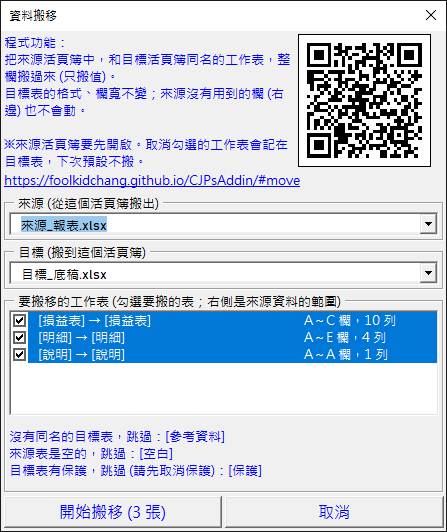
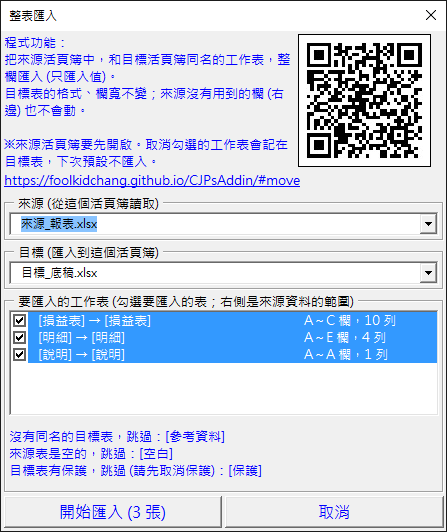
資料搬移改名「整表匯入」；產生QRCode 加上說明；公司更新檔換成 10/14 版
- 網站、小測驗、README 的名稱改成整表匯入 (頁籤 id 仍是 move)，註明 v1.13 的選單名稱是資料搬移
- 設定視窗截圖與練習檔改成新名稱
- 公司更新檔：A13 此版號不再通知、整表匯入、下拉選單微軟正黑體 9、資料拆檔的 Tab 順序

diff --git a/index.html b/index.html
@@ -4,13 +4,13 @@
 <meta charset="utf-8">
 <meta name="viewport" content="width=device-width, initial-scale=1, viewport-fit=cover">
 <!-- 搜尋關鍵字：CJP、增益集、VBA、Add-in。標題、簡介、首頁說明與下方的結構化資料要一起維護 -->
-<meta name="description" content="CJP 增益集 (CJPsAddin、CJP's VBA Tools) 是一個 Excel VBA Add-in，提供篩選強化、兩表比對、單表比對、多檔收集、單檔收集、資料拆檔、資料搬移、樞紐明細等功能。附教學與線上練習，直接在瀏覽器操作。">
+<meta name="description" content="CJP 增益集 (CJPsAddin、CJP's VBA Tools) 是一個 Excel VBA Add-in，提供篩選強化、兩表比對、單表比對、多檔收集、單檔收集、資料拆檔、整表匯入、樞紐明細等功能。附教學與線上練習，直接在瀏覽器操作。">
 <meta property="og:type" content="website">
 <meta property="og:site_name" content="CJPsAddin">
 <meta property="og:url" content="https://foolkidchang.github.io/CJPsAddin/">
 <meta property="og:locale" content="zh_TW">
 <meta property="og:title" content="CJP 增益集 CJPsAddin｜Excel VBA Tools (附教學)">
-<meta property="og:description" content="CJP 增益集 (CJPsAddin、CJP's VBA Tools) 是一個 Excel VBA Add-in，提供篩選強化、兩表比對、單表比對、多檔收集、單檔收集、資料拆檔、資料搬移、樞紐明細等功能。附教學與線上練習，直接在瀏覽器操作。">
+<meta property="og:description" content="CJP 增益集 (CJPsAddin、CJP's VBA Tools) 是一個 Excel VBA Add-in，提供篩選強化、兩表比對、單表比對、多檔收集、單檔收集、資料拆檔、整表匯入、樞紐明細等功能。附教學與線上練習，直接在瀏覽器操作。">
 <meta name="google-site-verification" content="buucDtRrcJYY-0kigrYnWsXKJyp51EqlqKGfyQU-9uo">
 <link rel="canonical" href="https://foolkidchang.github.io/CJPsAddin/">
 <title>CJP 增益集 CJPsAddin｜Excel VBA Tools (附教學)</title>
@@ -475,8 +475,8 @@ table.wrap td,table.wrap th{white-space:normal}
       <span class="subgrp" data-group="collect" role="group" hidden><button class="subtab" role="tab" data-tab="collect" data-group="collect" id="t-collect">多檔收集</button><button class="subtab" role="tab" data-tab="classify" data-group="collect" id="t-classify">單檔收集</button></span>
       <button class="tab" role="tab" data-group="split">資料拆檔</button>
       <span class="subgrp" data-group="split" role="group" hidden><button class="subtab" role="tab" data-tab="split" data-group="split" id="t-split">資料拆檔</button></span>
-      <button class="tab" role="tab" data-group="move">資料搬移</button>
-      <span class="subgrp" data-group="move" role="group" hidden><button class="subtab" role="tab" data-tab="move" data-group="move" id="t-move">資料搬移</button></span>
+      <button class="tab" role="tab" data-group="move">整表匯入</button>
+      <span class="subgrp" data-group="move" role="group" hidden><button class="subtab" role="tab" data-tab="move" data-group="move" id="t-move">整表匯入</button></span>
       <button class="tab" role="tab" data-group="settings" data-label="設定切換">設定切換</button>
       <span class="subgrp" data-group="settings" role="group" hidden><button class="subtab" role="tab" data-tab="pivot" data-group="settings" id="t-pivot">樞紐明細</button></span>
       <button class="tab" role="tab" data-group="quiz">小測驗</button>
@@ -513,7 +513,7 @@ table.wrap td,table.wrap th{white-space:normal}
     <div class="more-body">
     <p class="lead">執行一次安裝程式，之後<b class="hl">每次開 Excel 都會自動載入</b>，不用再設定。</p>
 
-    <div class="pending"><span>📦</span><span><a class="dl-btn" href="files/CJPsAddin_v1.13.zip" download><svg viewBox="0 0 24 24" aria-hidden="true"><path d="M12 3v12m0 0-5-5m5 5 5-5M4 19h16"/></svg>下載增益集 v1.13 (zip)</a> 內含增益集 <code>CJPsAddin.xla</code> 與安裝程式。練習檔不在 zip 裡，請到篩選強化、兩表比對、單表比對、資料拆檔、資料搬移各單元下載。</span></div>
+    <div class="pending"><span>📦</span><span><a class="dl-btn" href="files/CJPsAddin_v1.13.zip" download><svg viewBox="0 0 24 24" aria-hidden="true"><path d="M12 3v12m0 0-5-5m5 5 5-5M4 19h16"/></svg>下載增益集 v1.13 (zip)</a> 內含增益集 <code>CJPsAddin.xla</code> 與安裝程式。練習檔不在 zip 裡，請到篩選強化、兩表比對、單表比對、資料拆檔、整表匯入各單元下載。</span></div>
 
     <div class="steps">
       <div class="step"><span class="step-n">步驟 1</span><h3>下載並解壓縮</h3><p>在 zip 上按右鍵 →「全部解壓縮」。不要直接在 zip 裡執行，安裝程式要和 <code>CJPsAddin.xla</code> 放在同一個資料夾</p></div>
@@ -637,7 +637,7 @@ table.wrap td,table.wrap th{white-space:normal}
             <li data-tip="依據〔分類規則表〕Key值進行資料收集；可當成批次VLOOKUP使用" tabindex="0"><span class="mi">單檔收集</span><a class="lab-tag" href="#classify-1">練習 →</a></li>
           </ul></li>
           <li data-tip="依Key值欄的內容，把工作表拆成多個檔案" tabindex="0"><span class="mi">資料拆檔</span><a class="lab-tag" href="#split-1">練習 →</a></li>
-          <li data-tip="把來源活頁簿中同名工作表的資料，整欄搬到目標活頁簿 (只搬值)" tabindex="0"><span class="mi">資料搬移</span><a class="lab-tag" href="#move">說明 →</a></li>
+          <li data-tip="把來源活頁簿中同名工作表的資料，整欄匯入目標活頁簿 (只匯入值)" tabindex="0"><span class="mi">整表匯入</span><a class="lab-tag" href="#move">說明 →</a></li>
           <li class="grp">批量檔案處理…<ul>
             <li class="grp">更改檔名…<ul>
               <li>檔名讀取</li>
@@ -655,7 +655,7 @@ table.wrap td,table.wrap th{white-space:normal}
       </div>
       <div><h3>特殊功能</h3>
         <ul>
-          <li>產生QRCode</li>
+          <li data-tip="依「已複製的資訊」產生QRCode" tabindex="0"><span class="mi">產生QRCode</span></li>
         </ul>
         <h3 style="margin-top:14px">快速存取工具列</h3>
         <ul>
@@ -717,10 +717,10 @@ table.wrap td,table.wrap th{white-space:normal}
       </div>
     </a>
     <a class="lesson-card" href="#move">
-      <h3 class="lc-title">資料搬移</h3>
+      <h3 class="lc-title">整表匯入</h3>
       <figure class="ill" data-ill="move" aria-hidden="true"></figure>
       <div class="lc-txt">
-        <p>把報表貼進底稿：兩個活頁簿裡<b class="hl">名稱相同的工作表</b>，一次把資料整欄搬過去，只搬值、不帶格式。</p>
+        <p>把報表貼進底稿：兩個活頁簿裡<b class="hl">名稱相同的工作表</b>，一次把資料整欄匯入，只匯入值、不帶格式。</p>
         <span class="lc-go">看說明與練習檔 →</span>
       </div>
     </a>
@@ -1568,16 +1568,16 @@ table.wrap td,table.wrap th{white-space:normal}
   </div>
 </section>
 
-<!-- ============================ 資料搬移 ============================ -->
+<!-- ============================ 整表匯入 (原名資料搬移，頁籤 id 仍是 move) ============================ -->
 <section class="lesson" id="tab-move" hidden>
   <div class="head">
     <div class="eyebrow">功能說明</div>
-    <h2>資料搬移</h2>
+    <h2>整表匯入</h2>
   </div>
 
   <div class="panel intro">
     <figure class="ill">
-      <svg viewBox="0 0 340 126" role="img" aria-label="示意圖：來源活頁簿的損益表、明細搬到目標活頁簿的同名工作表；來源的參考資料在目標沒有同名的表，跳過">
+      <svg viewBox="0 0 340 126" role="img" aria-label="示意圖：來源活頁簿的損益表、明細匯入目標活頁簿的同名工作表；來源的參考資料在目標沒有同名的表，跳過">
         <defs><marker id="ill-ah4" markerUnits="userSpaceOnUse" markerWidth="9" markerHeight="9" refX="8" refY="4.5" orient="auto"><path class="i-acc" d="M0 0 L9 4.5 L0 9 Z"/></marker></defs>
         <text x="76" y="22" text-anchor="middle" class="i-muted">來源活頁簿</text>
         <rect class="i-box" x="6" y="30" width="140" height="88" rx="4"/>
@@ -1592,11 +1592,11 @@ table.wrap td,table.wrap th{white-space:normal}
         <rect class="i-both" x="200" y="63" width="128" height="22" rx="3"/><text x="208" y="78" class="i-b">明細</text>
         <rect class="i-box" x="200" y="89" width="128" height="22" rx="3"/><text x="208" y="104" class="i-muted">說明</text><text x="320" y="104" text-anchor="end" class="i-muted">不動</text>
       </svg>
-      <figcaption>名稱相同的工作表整欄搬過去 (只搬值)，其他的表不動</figcaption>
+      <figcaption>名稱相同的工作表整欄匯入 (只匯入值)，其他的表不動</figcaption>
     </figure>
     <div class="intro-txt">
       <h3>這個功能在做什麼</h3>
-      <p>每個月把系統匯出的報表貼進固定格式的底稿，底稿裡的公式再參照這些資料。工作表一多，一張一張「複製、貼上值」很花時間，這時用<b class="hl">資料搬移</b>：來源活頁簿和目標活頁簿中<b>名稱相同的工作表</b>，一次把來源的資料整欄搬到目標。只搬值，目標的格式、欄寬、公式欄都維持原樣。</p>
+      <p>每個月把系統匯出的報表貼進固定格式的底稿，底稿裡的公式再參照這些資料。工作表一多，一張一張「複製、貼上值」很花時間，這時用<b class="hl">整表匯入</b>：來源活頁簿和目標活頁簿中<b>名稱相同的工作表</b>，一次把來源的資料整欄匯入目標。只匯入值，目標的格式、欄寬、公式欄都維持原樣。</p>
       <div class="intro-cols">
         <div>
           <h4>適合這些時候用</h4>
@@ -1620,11 +1620,11 @@ table.wrap td,table.wrap th{white-space:normal}
 
   <div class="sub-head">
     <h3>設定視窗</h3>
-    <p class="lead">先開啟來源活頁簿，再切到要更新的底稿 (目標)，在增益集選單「常用功能二」點<b>資料搬移</b>。視窗會列出配對成功的工作表，確認後按「開始搬移」。</p>
+    <p class="lead">先開啟來源活頁簿，再切到要更新的底稿 (目標)，在增益集選單「常用功能二」點<b>整表匯入</b> (v1.13 的選單名稱是「資料搬移」)。視窗會列出配對成功的工作表，確認後按「開始匯入」。</p>
   </div>
   <div class="grid-2">
     <figure class="shot">
-      <img src="img/move_form.png" width="447" height="532" loading="lazy" alt="資料搬移設定視窗：來源與目標活頁簿的下拉選單、勾選要搬移的工作表清單 (右側是來源資料的範圍)，以及跳過的工作表和原因">
+      <img src="img/move_form.png" width="447" height="532" loading="lazy" alt="整表匯入設定視窗：來源與目標活頁簿的下拉選單、勾選要匯入的工作表清單 (右側是來源資料的範圍)，以及跳過的工作表和原因">
       <figcaption>設定視窗 (用練習檔開啟)</figcaption>
     </figure>
     <div class="panel">
@@ -1632,16 +1632,16 @@ table.wrap td,table.wrap th{white-space:normal}
       <ol class="tight" style="margin-top:8px">
         <li><b>來源</b>：列出目前開著的活頁簿，自動選第一個不是目標的檔案。要的檔案不在清單裡時，先在 Excel 開啟它，再按一次下拉箭頭，清單會重新整理</li>
         <li><b>目標</b>：預設是執行時所在的活頁簿</li>
-        <li><b>要搬移的工作表</b>：每一列是一組「[來源表] → [目標表]」，右側是來源資料的範圍，例如「A～C 欄，10 列」。<b class="hl">取消勾選的不搬</b>，例如兩邊都有的「說明」表</li>
+        <li><b>要匯入的工作表</b>：每一列是一組「[來源表] → [目標表]」，右側是來源資料的範圍，例如「A～C 欄，10 列」。<b class="hl">取消勾選的不匯入</b>，例如兩邊都有的「說明」表</li>
         <li>清單下方的藍字是<b>跳過的表與原因</b>：沒有同名的目標表、來源表是空的、目標表有保護 (請先取消保護)</li>
-        <li>按鈕會顯示要搬幾張，例如「開始搬移 (2 張)」；搬完會列出成功和失敗的工作表</li>
+        <li>按鈕會顯示要匯入幾張，例如「開始匯入 (2 張)」；匯入後會列出成功和失敗的工作表</li>
       </ol>
     </div>
   </div>
 
   <div class="sub-head">
-    <h3>只搬值：內容會怎麼變</h3>
-    <p class="lead">只搬值等於把每一格<b>重新輸入一次</b>，和「先貼到記事本、再貼回 Excel」的效果一樣。結果會依目標欄的儲存格格式而不同：</p>
+    <h3>只匯入值：內容會怎麼變</h3>
+    <p class="lead">只匯入值等於把每一格<b>重新輸入一次</b>，和「先貼到記事本、再貼回 Excel」的效果一樣。結果會依目標欄的儲存格格式而不同：</p>
   </div>
   <div class="panel">
     <div class="scroll">
@@ -1652,7 +1652,7 @@ table.wrap td,table.wrap th{white-space:normal}
         <tr><td>員編 <code>00123</code></td><td><b class="hl">123</b>：前導零消失</td><td>00123</td></tr>
         <tr><td>16 碼卡號</td><td><b class="hl">4.31112E+15</b>：超過 15 位的數字會失真</td><td>完整保留</td></tr>
         <tr><td>開頭是 <code>-</code>、<code>+</code>、<code>@</code>、<code>=</code> 的文字，例如 <code>-已結案</code></td><td colspan="2">保留為文字，不會被當成公式</td></tr>
-        <tr><td>公式</td><td colspan="2">搬過去的是計算結果</td></tr>
+        <tr><td>公式</td><td colspan="2">匯入的是計算結果</td></tr>
       </table>
     </div>
     <p class="note-sm" style="margin-top:8px">員編、卡號、代碼這類要保留原樣的欄位，請先把目標欄設成文字格式。</p>
@@ -1660,7 +1660,7 @@ table.wrap td,table.wrap th{white-space:normal}
 
   <div class="sub-head">
     <div class="sub-head-top"><h3>練習檔</h3><span style="display:flex;flex-wrap:wrap;gap:8px"><a class="dl-btn" href="files/move_source.xlsx" download="來源_報表.xlsx" title="資料全部虛構"><svg viewBox="0 0 24 24" aria-hidden="true"><path d="M12 3v12m0 0-5-5m5 5 5-5M4 19h16"/></svg>來源_報表.xlsx</a><a class="dl-btn" href="files/move_target.xlsx" download="目標_底稿.xlsx" title="資料全部虛構；「說明」工作表有 10 個步驟"><svg viewBox="0 0 24 24" aria-hidden="true"><path d="M12 3v12m0 0-5-5m5 5 5-5M4 19h16"/></svg>目標_底稿.xlsx</a></span></div>
-    <p class="lead">兩個檔案下載到同一個資料夾並開啟，切到「目標_底稿」執行資料搬移。目標檔的「說明」工作表列了 10 個步驟和預期結果，照著做可以看到上面每一條規則的效果。重新練習時，兩個檔案都不要存檔、關掉重開即可。</p>
+    <p class="lead">兩個檔案下載到同一個資料夾並開啟，切到「目標_底稿」執行整表匯入。目標檔的「說明」工作表列了 10 個步驟和預期結果，照著做可以看到上面每一條規則的效果。重新練習時，兩個檔案都不要存檔、關掉重開即可。</p>
   </div>
 
   <div class="panel">
@@ -1668,7 +1668,7 @@ table.wrap td,table.wrap th{white-space:normal}
     <ol class="tight" style="margin-top:8px">
       <li>目標表從 A 欄到來源最後一欄是<b class="hl">整欄清除</b>後再寫入：這幾欄裡原有的內容 (包括資料下方的備註) 都會清掉；更右邊的欄不受影響。底稿自己的公式、備註，請放在來源資料範圍的右邊</li>
       <li>取消勾選的目標表會<b>記在那張工作表裡</b>，下次預設不勾；目標檔要存檔才記得住，複製工作表時這個記錄不會跟著複製</li>
-      <li>目標欄有跨欄的合併儲存格時，那張表會搬移失敗，結果訊息會列出來；其他表照常搬移</li>
+      <li>目標欄有跨欄的合併儲存格時，那張表會匯入失敗，結果訊息會列出來；其他表照常匯入</li>
       <li>改了 Windows 的顯示比例 (例如 100% 改成 150%) 後視窗排版亂掉：把 Excel 全部關掉再重新開啟</li>
     </ol>
   </div>
@@ -3046,9 +3046,9 @@ const QUIZ=[
  {f:'split',q:'依「科別」拆檔，但有一段業務一科的資料排在業務二科後面。按「確定」會怎樣？',o:['照樣拆，業務一科會拆成兩個檔案','後面那段業務一科的資料會被漏掉','還沒產生任何檔案就提示「跳列」，請你先排序','程式自動排序後再拆'],a:2,w:'程式會先檢查全部的 Key，相同 Key 的資料必須連在一起。先依 Key 值欄排序再拆檔。'},
  {f:'split',q:'報表第 1～3 列是報表標題和日期，標題列在第 4 列。拆出的檔案不要前 3 列，保留範圍要怎麼填？',o:['上：從第 4 列起','上：從第 3 列起','下：到第 4 列','左：從 D 欄起'],a:0,w:'保留範圍「上」填標題列，上面的列都會刪除。上、左是「從…起」，下、右是「到…」。'},
  {f:'split',q:'「北區」那一列的區域和科別都是「北區」。勾選「跳過群組標題列」時，這一列會怎樣？',o:['北區會拆成一個檔案','不算任何 Key，拆出的檔案裡都不會有這一列','原樣出現在每個檔案'],a:1,w:'Key 值欄和左邊一欄內容相同的列是群組標題列，不拆成檔案，也不放進任何檔案。不勾選時，北區會被當成一個 Key。'},
- {f:'move',q:'來源「損益表」的資料在 A～C 欄。目標「損益表」的 A30 有一段舊附註、F 欄有你的備註。搬移後這兩處會怎樣？',o:['兩處都保留','A30 被清掉，F 欄備註保留','兩處都被清掉'],a:1,w:'目標表從 A 欄到來源最後一欄 (C 欄) 整欄清除後再寫入，A30 在這幾欄裡會被清掉；D 欄以後不受影響。'},
- {f:'move',q:'來源的員編是文字「00123」，目標欄是一般格式。搬移後目標欄顯示？',o:['00123','123','搬移失敗'],a:1,w:'只搬值等於重新輸入一次，一般格式的欄會把它當成數字，前導零消失。要保留時，先把目標欄設成文字格式。'},
- {f:'move',q:'這次在清單取消勾選「[說明] → [說明]」並存檔，下次再執行資料搬移時？',o:['[說明] 預設不勾','[說明] 又會被勾選','[說明] 不會出現在清單'],a:0,w:'取消勾選的目標表會記在那張工作表裡，下次預設不勾；要搬時再勾回來即可。'},
+ {f:'move',q:'來源「損益表」的資料在 A～C 欄。目標「損益表」的 A30 有一段舊附註、F 欄有你的備註。匯入後這兩處會怎樣？',o:['兩處都保留','A30 被清掉，F 欄備註保留','兩處都被清掉'],a:1,w:'目標表從 A 欄到來源最後一欄 (C 欄) 整欄清除後再寫入，A30 在這幾欄裡會被清掉；D 欄以後不受影響。'},
+ {f:'move',q:'來源的員編是文字「00123」，目標欄是一般格式。匯入後目標欄顯示？',o:['00123','123','匯入失敗'],a:1,w:'只匯入值等於重新輸入一次，一般格式的欄會把它當成數字，前導零消失。要保留時，先把目標欄設成文字格式。'},
+ {f:'move',q:'這次在清單取消勾選「[說明] → [說明]」並存檔，下次再執行整表匯入時？',o:['[說明] 預設不勾','[說明] 又會被勾選','[說明] 不會出現在清單'],a:0,w:'取消勾選的目標表會記在那張工作表裡，下次預設不勾；要匯入時再勾回來即可。'},
  {f:'pivot',q:'在樞紐分析表的哪裡雙擊，增益集才會整理產生的明細工作表？',o:['列標籤，例如業務員姓名','數值區的一格，包括總計','報表篩選的欄位','任何儲存格'],a:1,w:'只處理數值區的一格。雙擊列標籤、欄標籤時，Excel 會詢問要展開哪個欄位，增益集不會處理。'},
  {f:'pivot',q:'雙擊數值「3,280」產生的明細工作表，名稱會是什麼？',o:['工作表3','3,280','樞紐分析表1','明細'],a:1,w:'名稱是雙擊那一格顯示的數值；名稱已經有人用時，依序加上 _2、_3。'},
  {f:'pivot',q:'用選單把樞紐明細來源功能關閉後，關掉 Excel 再重新開啟，這個功能是？',o:['維持關閉','恢復成開啟','要重新安裝增益集才會開啟'],a:1,w:'這個功能預設開啟，每次開 Excel 都會自動開啟。關閉只對這次開著的 Excel 有效。'}
